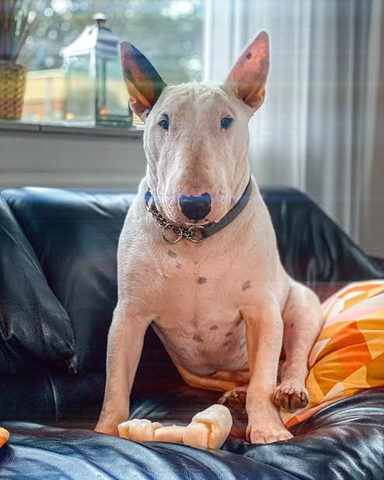
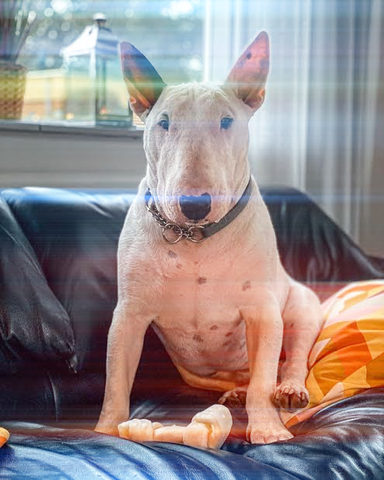
fix(halation): retune halation and anamorphic_streaks defaults to show
Both gallery pictures barely showed the effect. Halation now glows from a lower threshold (0.5)
with a wider radius (30 px) and amount (1.8); the streaks reach 0.35 of the width from a
threshold of 0.7 at amount 6. The example recipes use the defaults, so the picture shows what a
plain call does.

diff --git a/src/photo_fx/effects/halation/effect.py b/src/photo_fx/effects/halation/effect.py
@@ -14,7 +14,7 @@ class HalationParams(EffectParams):
     """Film halation: the brightest parts of the picture are blurred, tinted and screened back over it."""
 
     radius: float = param(
-        20.0,
+        30.0,
         unit="px",
         min=0,
         max=500,
@@ -22,7 +22,7 @@ class HalationParams(EffectParams):
         "highlights; 0 keeps it on the highlights themselves.",
     )
     threshold: float = param(
-        0.7,
+        0.5,
         unit="fraction",
         min=0,
         max=0.99,
@@ -30,7 +30,7 @@ class HalationParams(EffectParams):
         "values above it glow, rising to full at 1. Raising it limits the halation to the brightest highlights.",
     )
     amount: float = param(
-        0.7,
+        1.8,
         unit="ratio",
         min=0,
         max=10,

diff --git a/src/photo_fx/effects/anamorphic_streaks/effect.py b/src/photo_fx/effects/anamorphic_streaks/effect.py
@@ -12,7 +12,7 @@ class AnamorphicStreaksParams(EffectParams):
     """Anamorphic lens streaks: the highlights are stretched sideways into thin lines of light and screened back."""
 
     length: float = param(
-        0.25,
+        0.35,
         unit="fraction",
         min=0.001,
         max=1,
@@ -21,7 +21,7 @@ class AnamorphicStreaksParams(EffectParams):
         "longer, fainter streaks.",
     )
     threshold: float = param(
-        0.8,
+        0.7,
         unit="fraction",
         min=0,
         max=0.99,
@@ -29,7 +29,7 @@ class AnamorphicStreaksParams(EffectParams):
         "rising to full at 1. Raising it limits the streaks to the brightest highlights.",
     )
     amount: float = param(
-        3.0,
+        6.0,
         unit="ratio",
         min=0,
         max=10,
